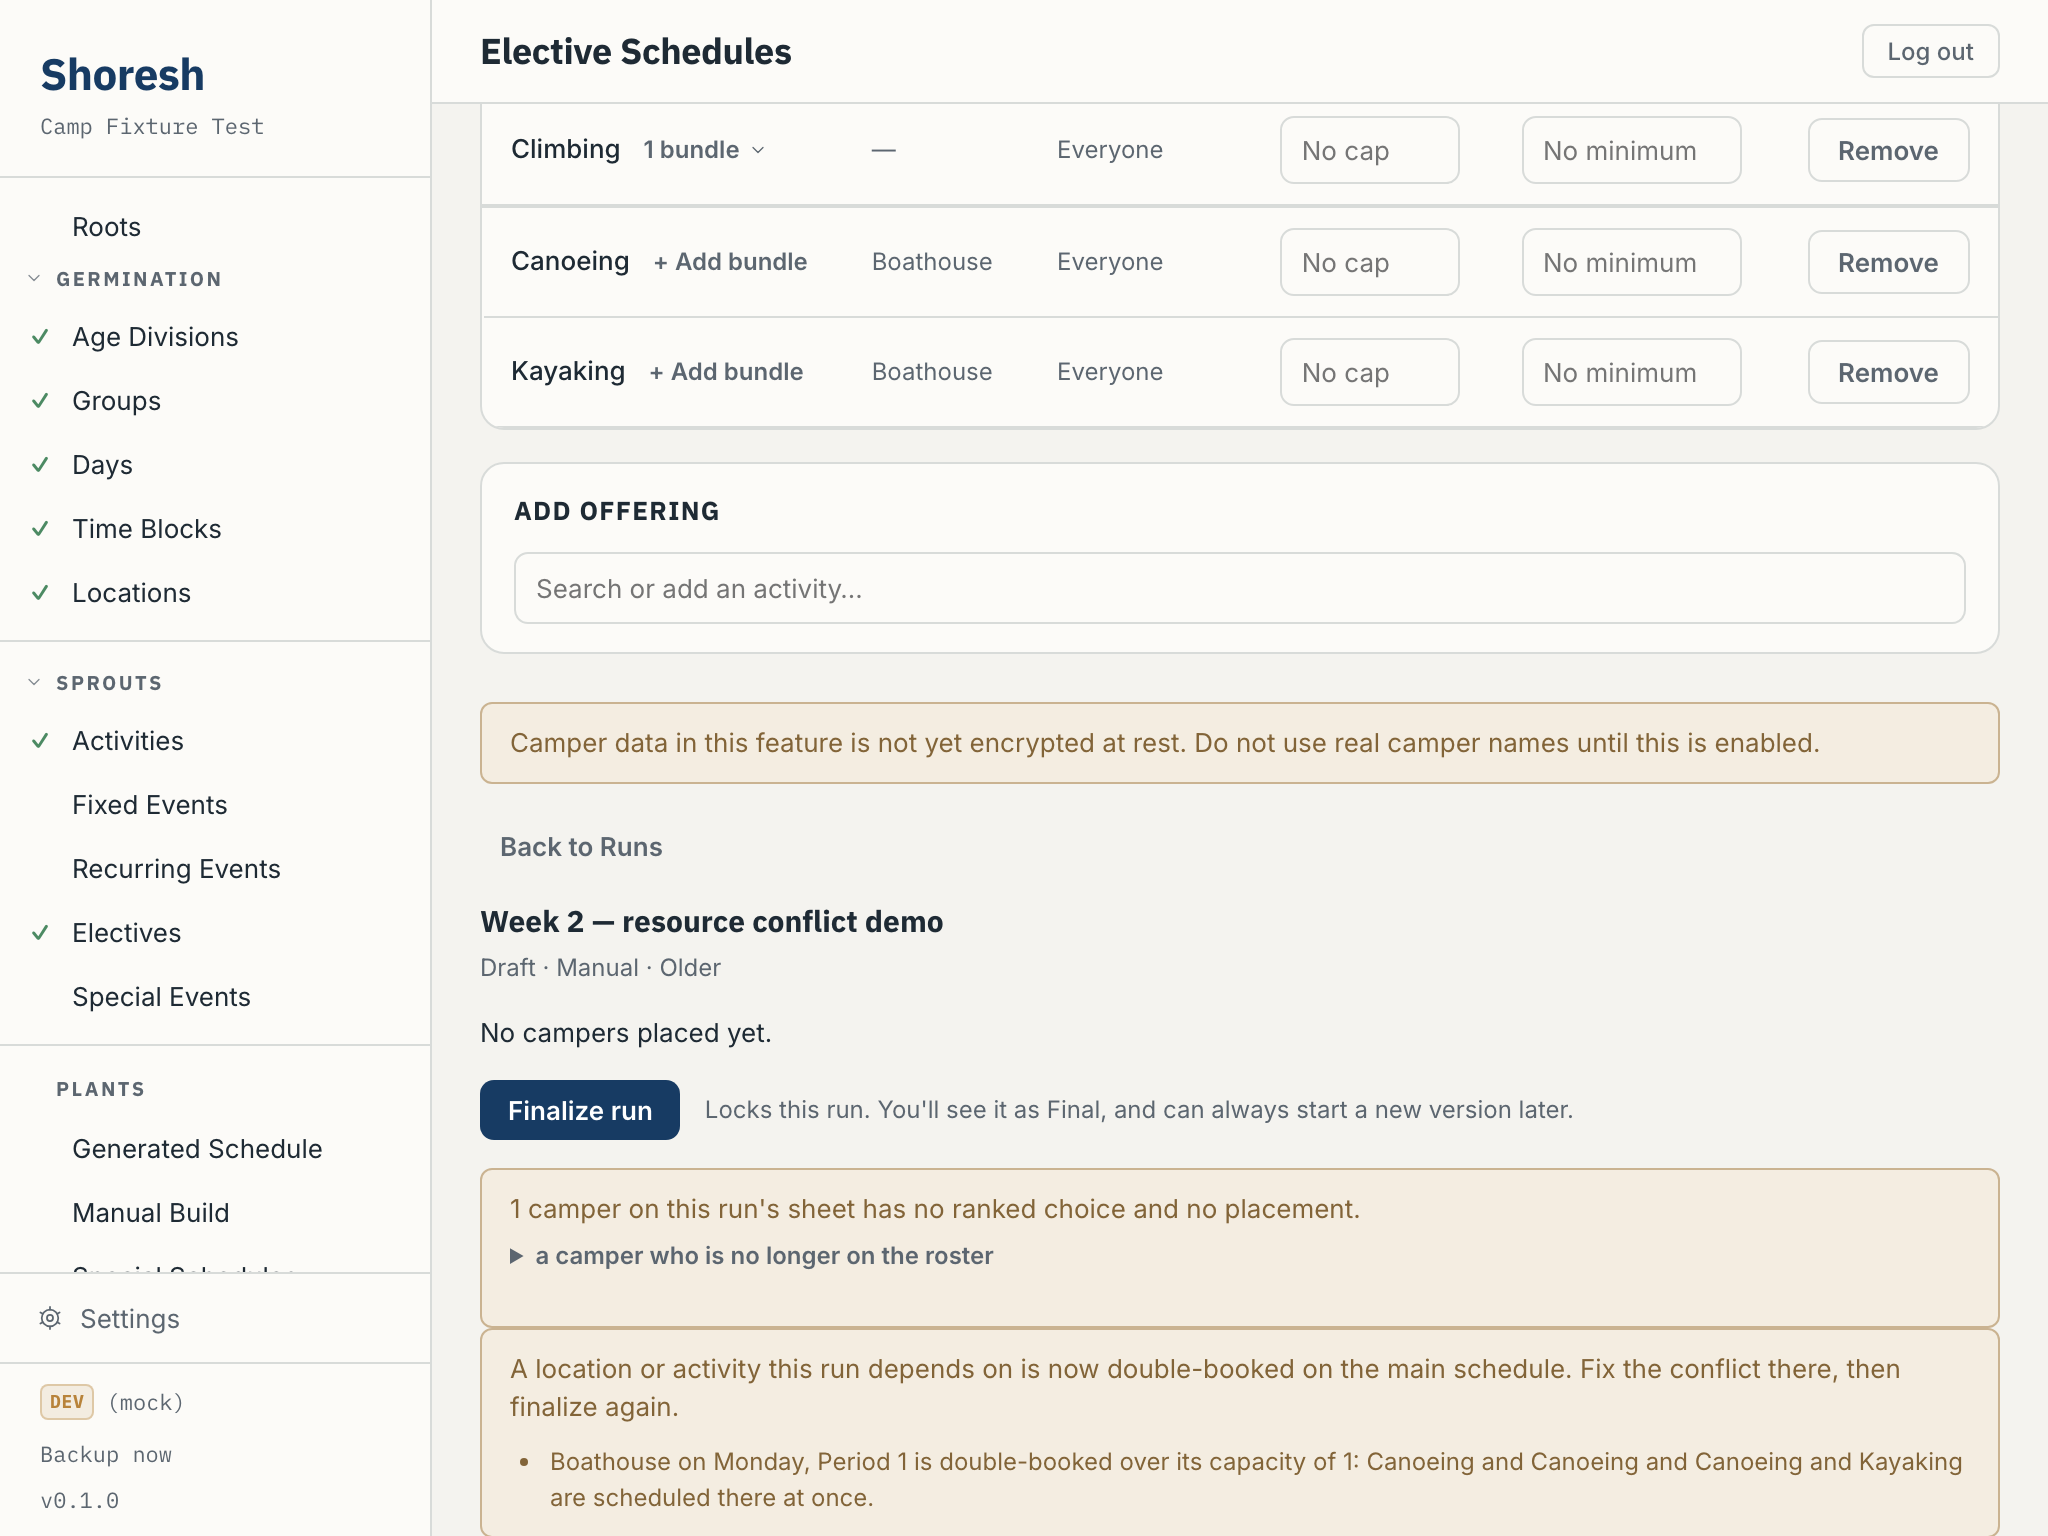
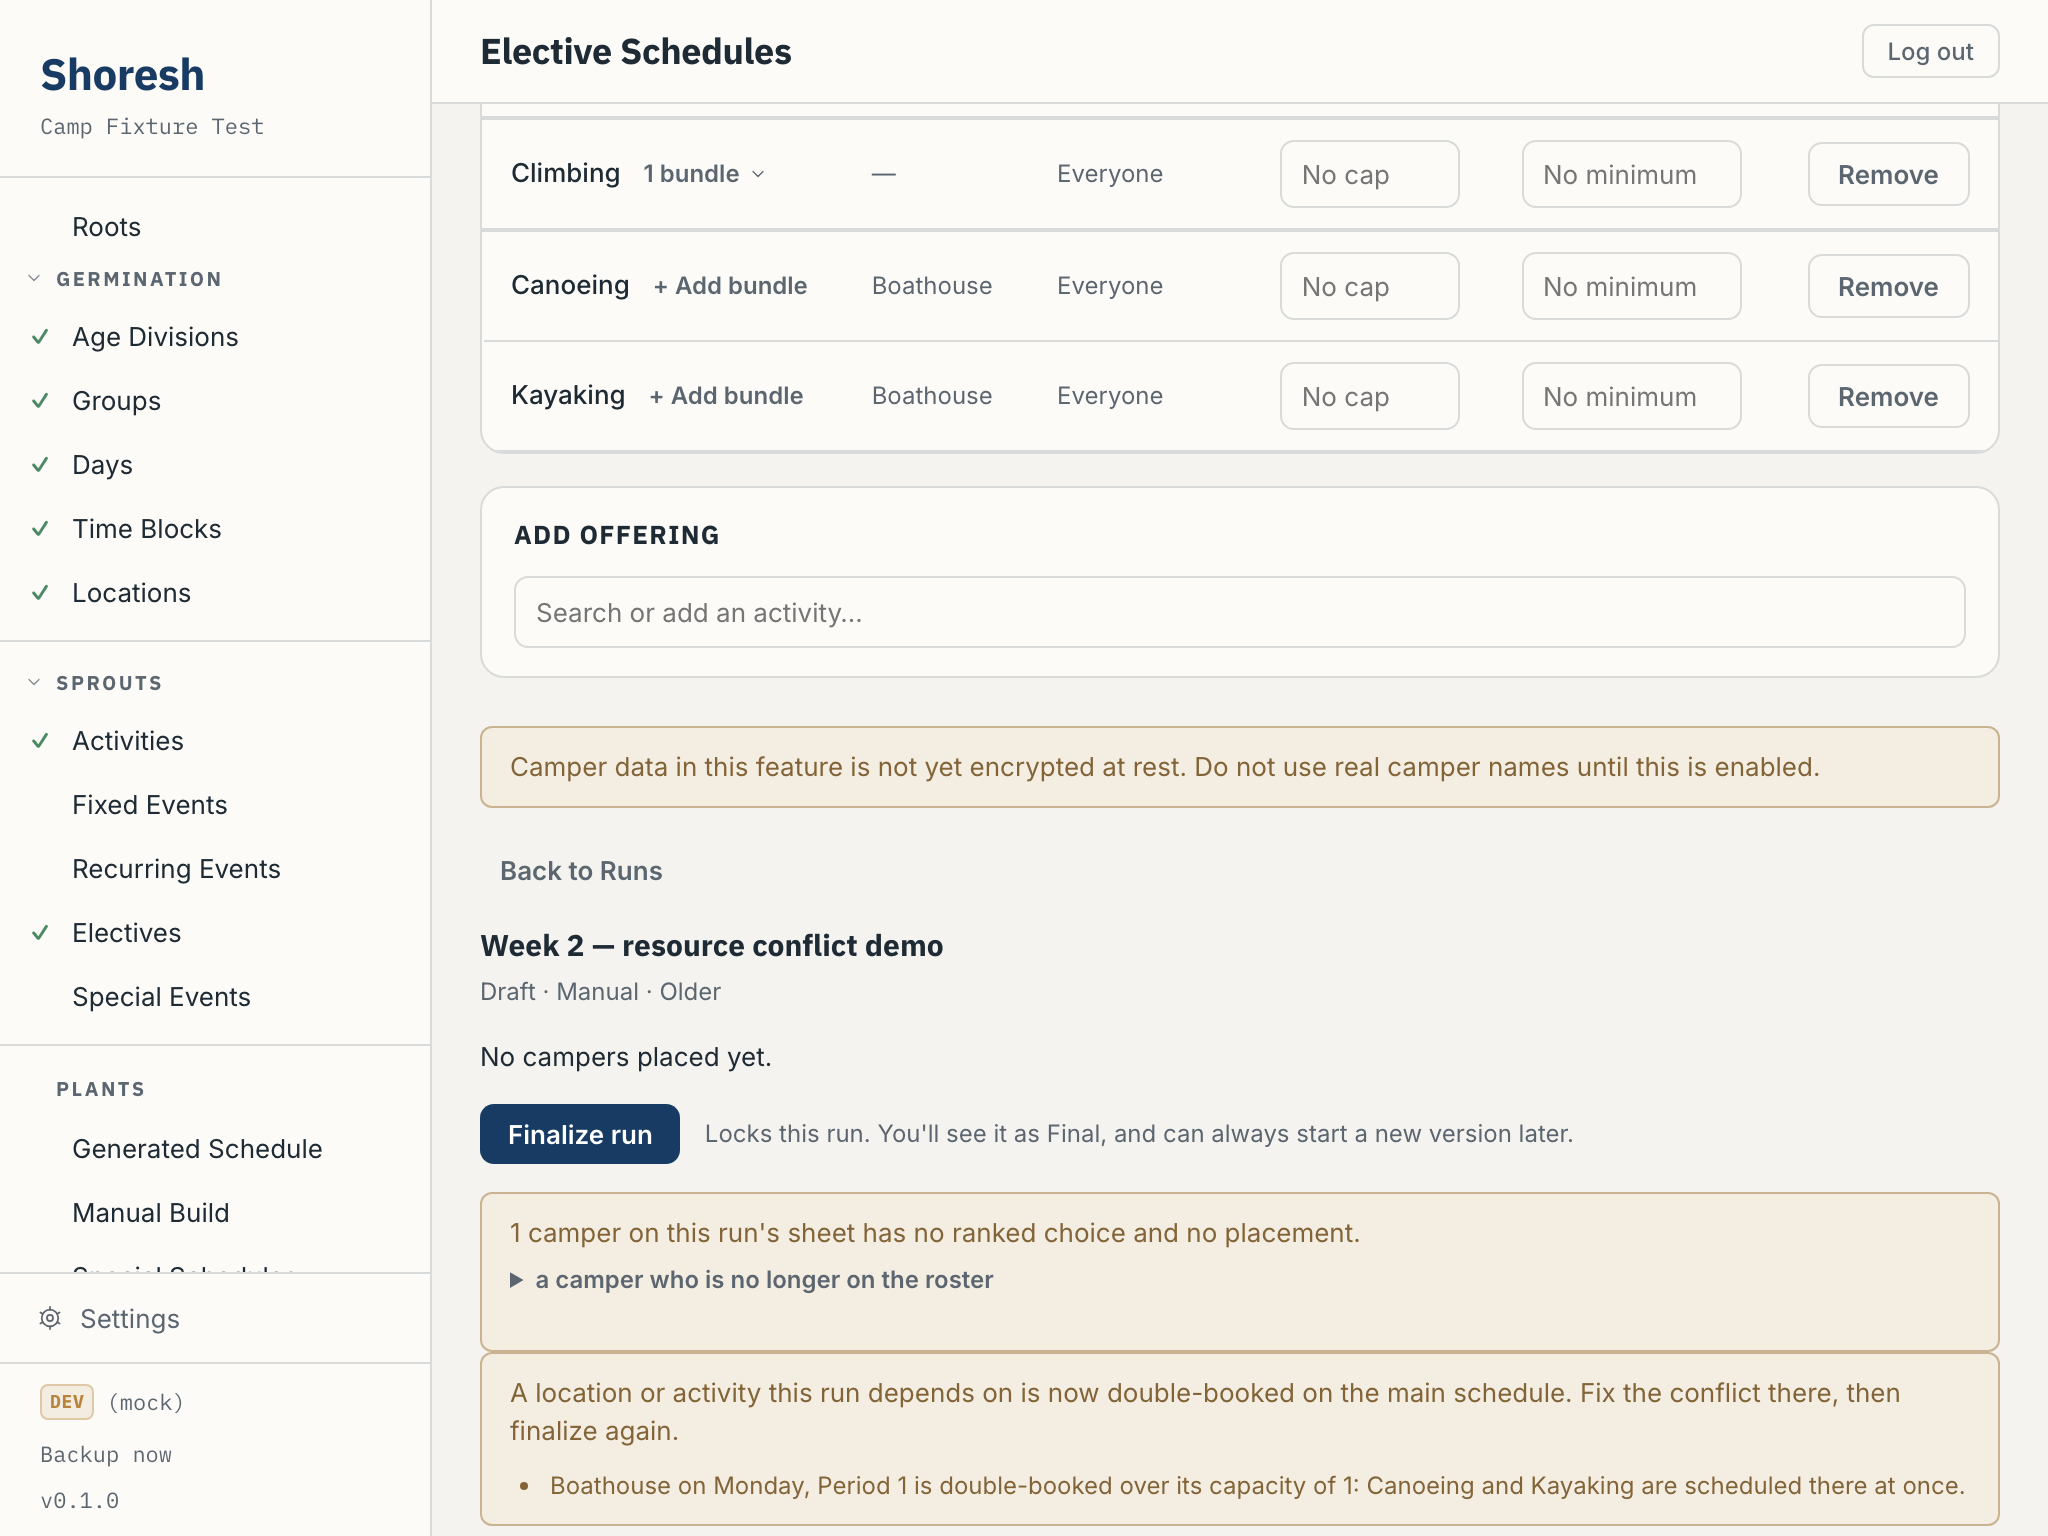
Re-capture scene2 with the corrected conflictFindingMessage sentence
scene2-outer-resource-conflict-refusal.png now shows "Boathouse on Monday,
Period 1 is double-booked over its capacity of 1: Canoeing and Kayaking are
scheduled there at once." — the round-5 fix's deduped, correctly-punctuated
sentence, replacing the defective "Canoeing and Canoeing and Canoeing and
Kayaking" capture. Checksum differs (bb5026f7... -> 992ef098...; 264836 ->
260729 bytes). scene1 and scene3 are untouched (byte-identical to the
committed versions, confirmed via git diff showing no change) — the fix only
affects conflictFindingMessage, which neither scene exercises.

Corrected a misdiagnosis in scene2-outer-resource-conflict-refusal-get_page_text.txt
(kept as the historical record of the original defective capture): I had
attributed the tripled "Canoeing" to a seeding artifact in my own test data.
It was a real product defect — findRouteConflicts legitimately registers one
occupant entry per occupying slot (three groups really were scheduled into
Canoeing), and conflictFindingMessage was not deduplicating before joining
them into prose.

diff --git a/docs/work/evidence/board-bundle-choice-and-copy/board-bundle-choice-and-copy-evidence.md b/docs/work/evidence/board-bundle-choice-and-copy/board-bundle-choice-and-copy-evidence.md
@@ -57,7 +57,7 @@ functions produce for a real import, not a fabricated read-model.
 | File | What it shows |
 | --- | --- |
 | `scene1-draft-run-mismatches-and-sheet-only.png` | Cold-opened Draft run "Week 1 — mismatches demo": Finalize renders ABOVE the run-state findings area (C1 ii), and the sheet-only-campers disclosure is expanded, showing the count + names row (C(4)), durable on a cold reopen. |
-| `scene2-outer-resource-conflict-refusal.png` | A REAL click of "Finalize run" (not a jsdom-mocked IPC response) against a run whose template_slots double-book the Boathouse — produces a live OUTER_RESOURCE_CONFLICT refusal naming the location, day/period, capacity and colliding activities (F8 + C2/F6): "Boathouse on Monday, Period 1 is double-booked over its capacity of 1: Canoeing and Canoeing and Canoeing and Kayaking are scheduled there at once." The raw kind code never appears. |
+| `scene2-outer-resource-conflict-refusal.png` | A REAL click of "Finalize run" (not a jsdom-mocked IPC response) against a run whose template_slots double-book the Boathouse — produces a live OUTER_RESOURCE_CONFLICT refusal naming the location, day/period, capacity and colliding activities (F8 + C2/F6): "Boathouse on Monday, Period 1 is double-booked over its capacity of 1: Canoeing and Kayaking are scheduled there at once." The raw kind code never appears. |
 | `scene3-finalized-run-director-name.png` | Cold-opened Final run "Week 0 — finalized demo": "Final · finalized 2026-10-01 · by Director Dana" — the real director's name, never a raw user id (C3). |
 
 `capture.mjs`'s own console output (`SEED RESULT`), reproduced here for the
